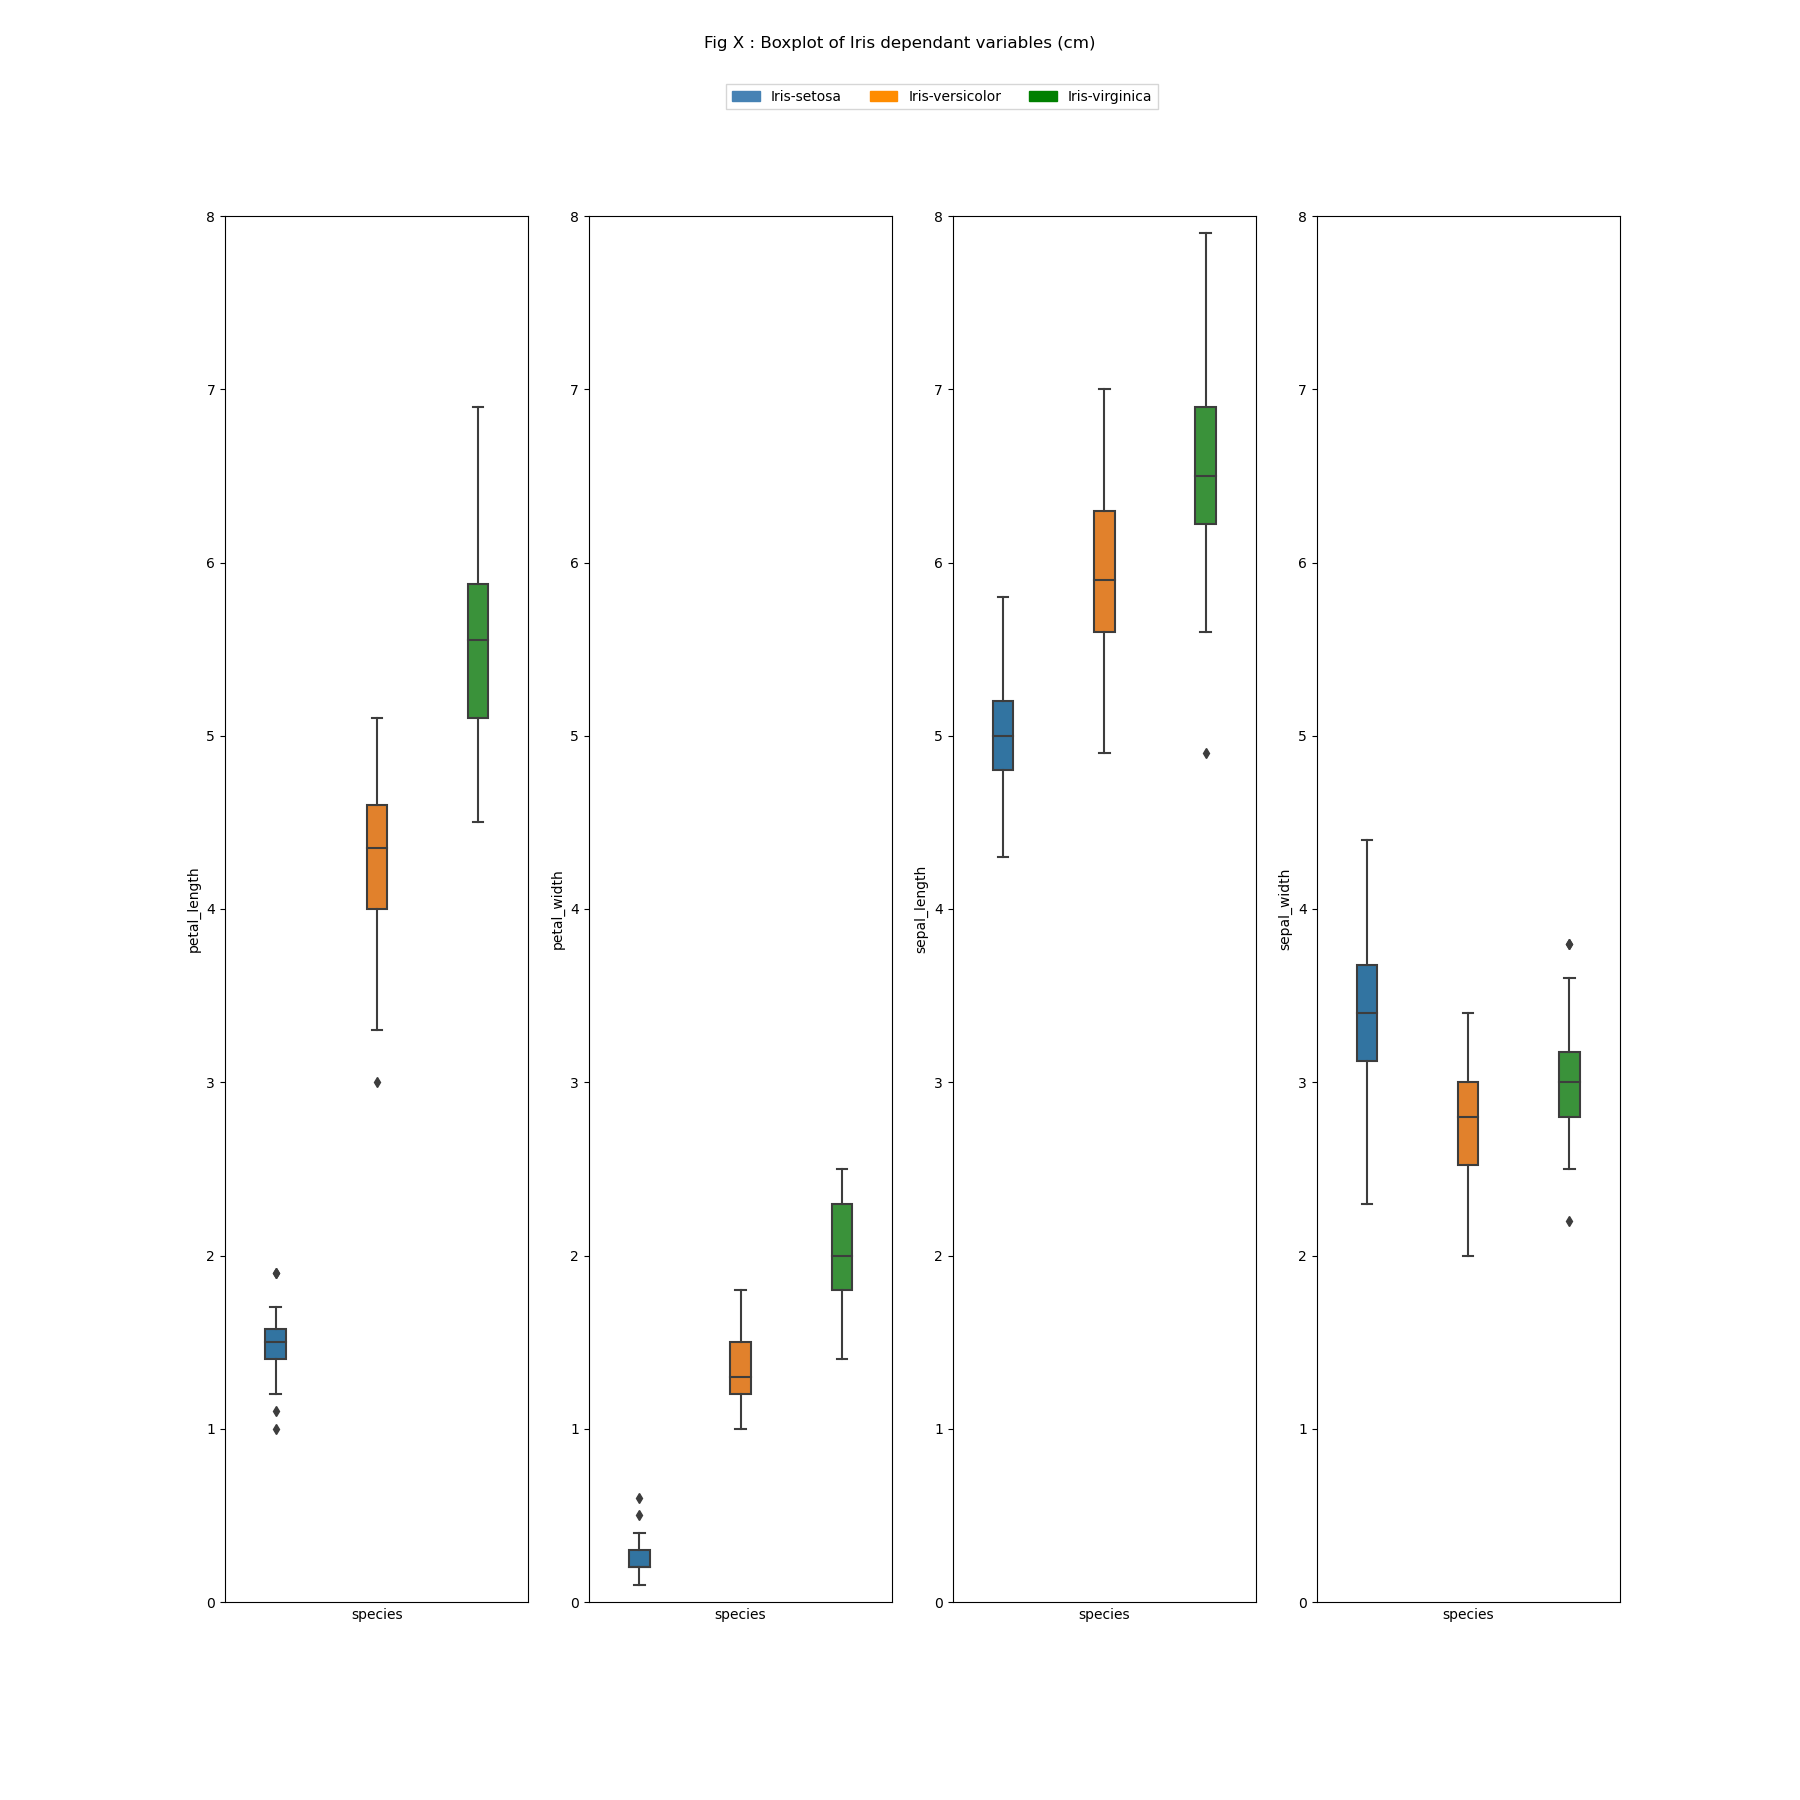
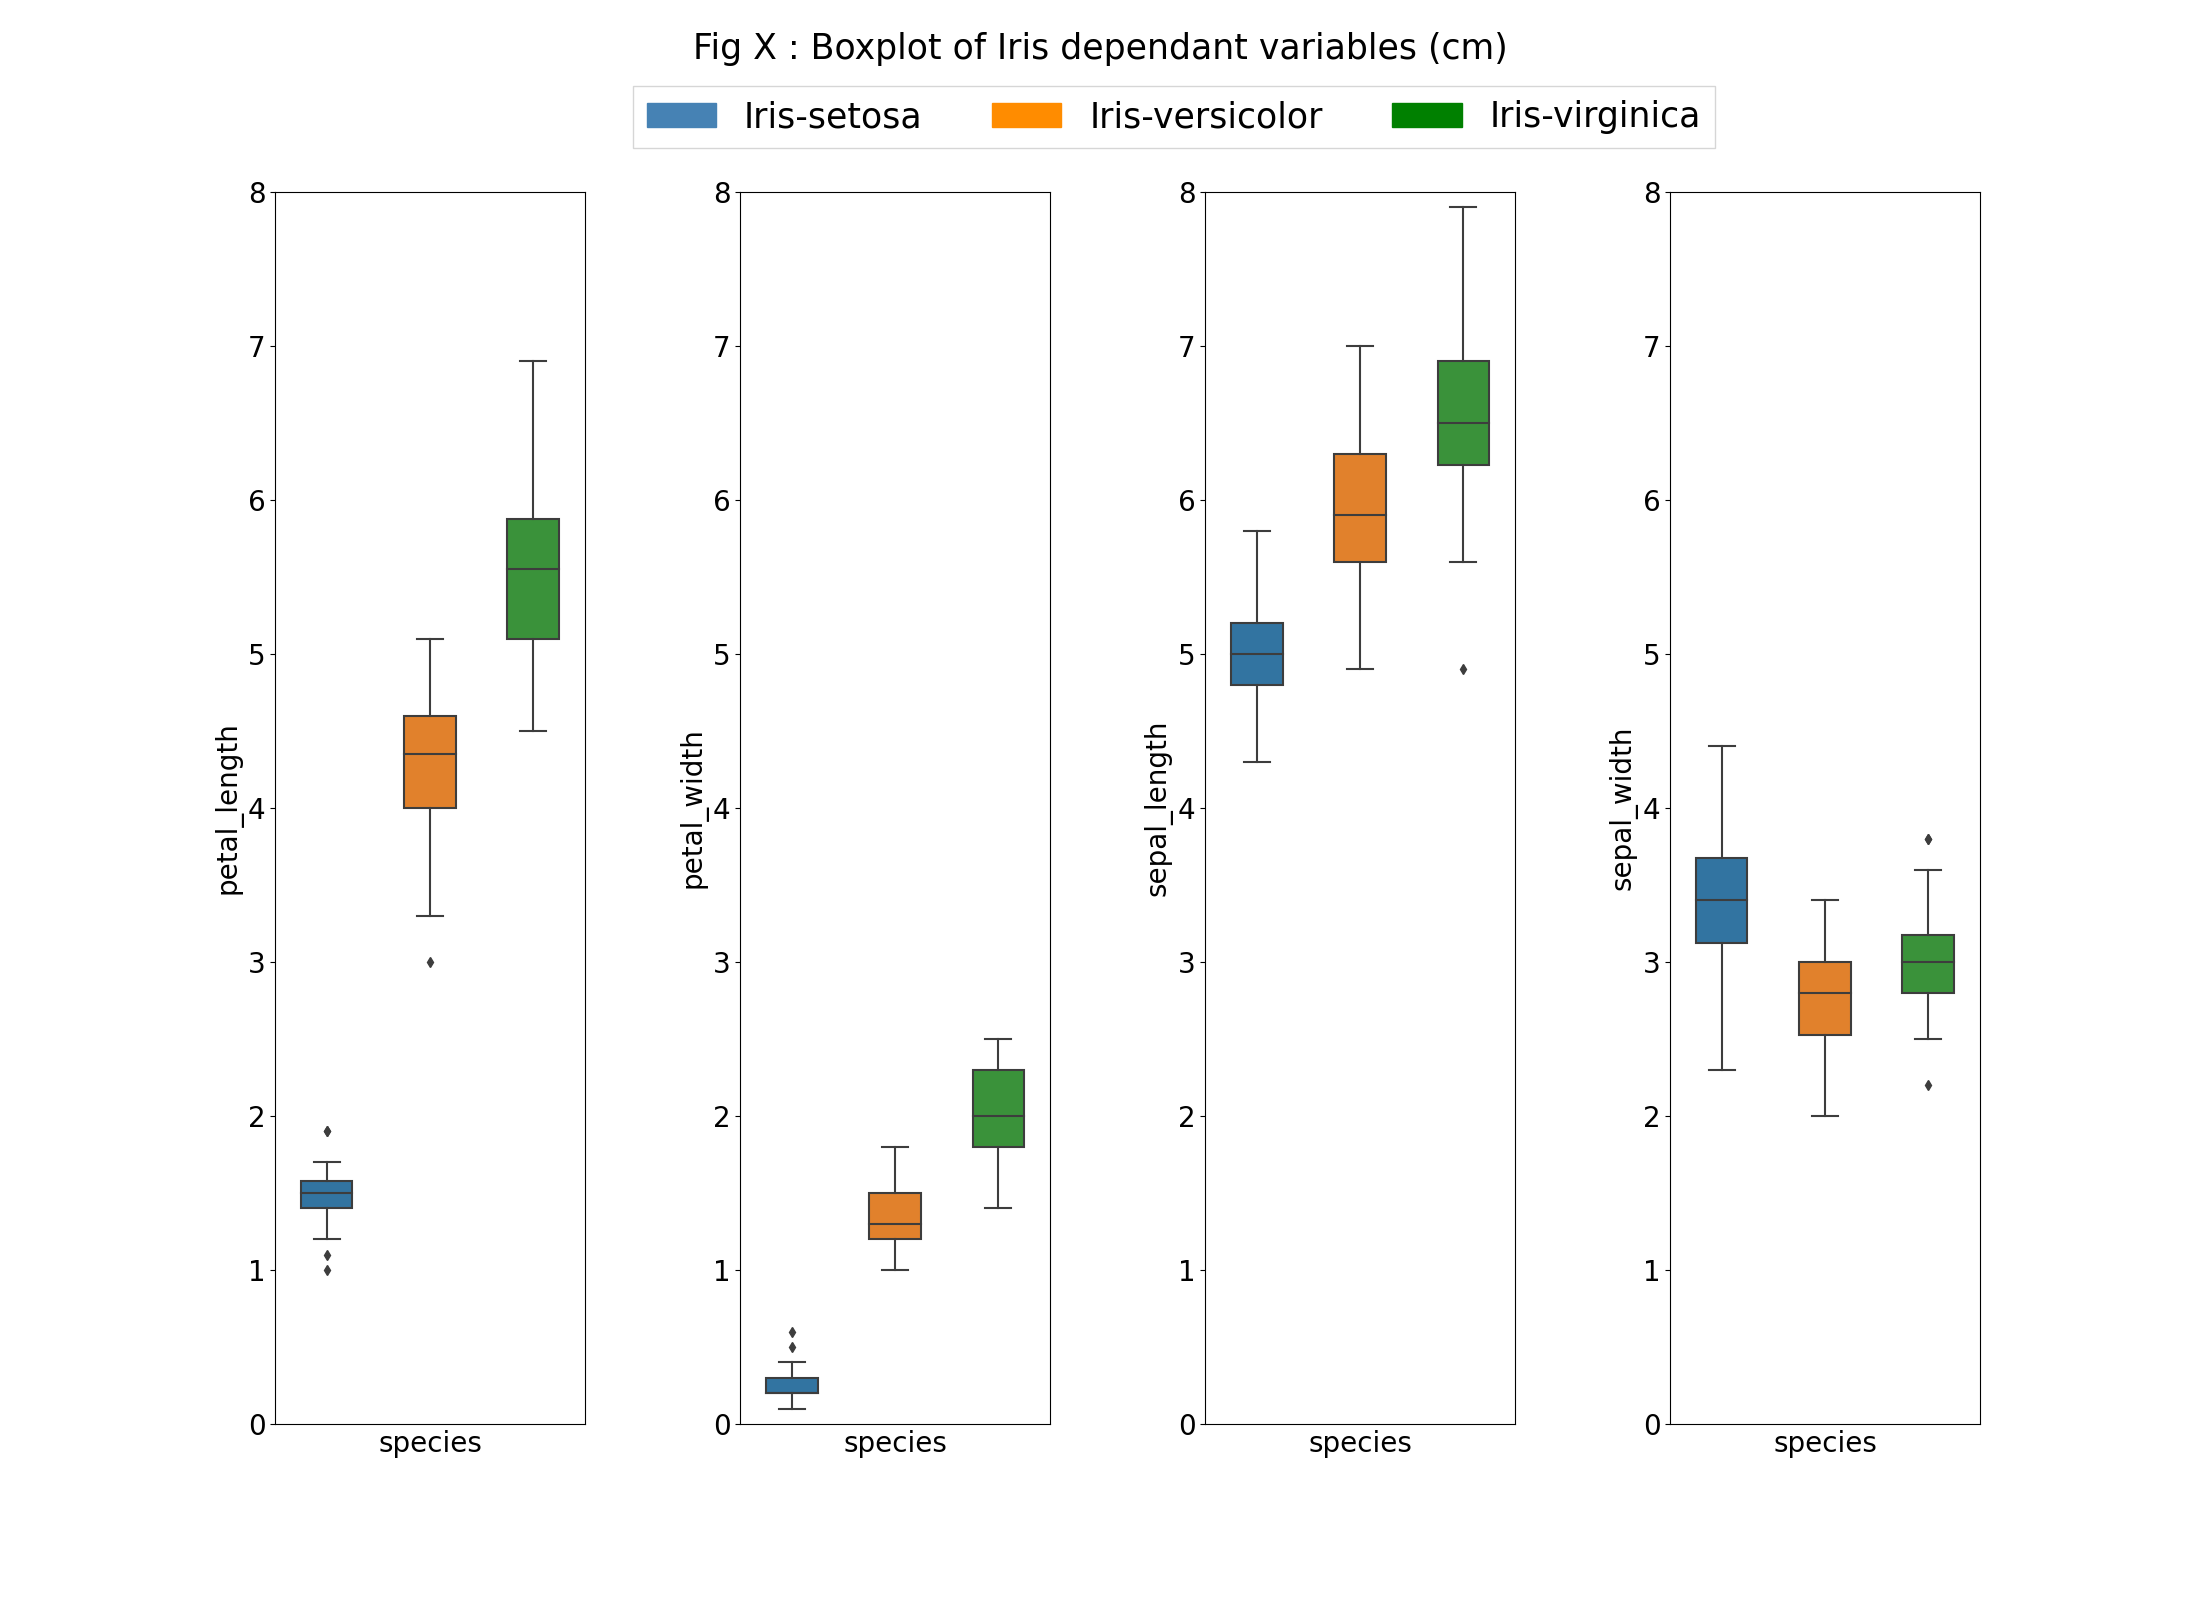
test

diff --git a/Project/analysis.py b/Project/analysis.py
@@ -101,13 +101,13 @@ plot_histograms('histograms_sepals','Plot 2','Sepals','sepal_length','sepal_widt
 def plot_boxplot():
     from matplotlib import patches as mpatches
 
-    fig, axes = plt.subplots(1,4, figsize=(18, 18))
-    fig.suptitle('Fig X : Boxplot of Iris dependant variables (cm)', fontsize = 12)
+    fig, axes = plt.subplots(1,4, figsize=(22, 16))
+    fig.suptitle('Fig X : Boxplot of Iris dependant variables (cm)', fontsize = 25)
 
-    sns.boxplot(ax=axes[0], x = iris_df["species"], y = iris_df["petal_length"], data = iris_df, width=0.2)
-    sns.boxplot(ax=axes[1], x=iris_df["species"], y=iris_df["petal_width"], data = iris_df, width=0.2)
-    sns.boxplot(ax=axes[2], x=iris_df["species"], y=iris_df["sepal_length"], data = iris_df, width=0.2)
-    sns.boxplot(ax=axes[3], x=iris_df["species"], y=iris_df["sepal_width"], data  =iris_df, width=0.2)
+    sns.boxplot(ax=axes[0], x = iris_df["species"], y = iris_df["petal_length"], data = iris_df, width=0.5)
+    sns.boxplot(ax=axes[1], x=iris_df["species"], y=iris_df["petal_width"], data = iris_df, width=0.5)
+    sns.boxplot(ax=axes[2], x=iris_df["species"], y=iris_df["sepal_length"], data = iris_df, width=0.5)
+    sns.boxplot(ax=axes[3], x=iris_df["species"], y=iris_df["sepal_width"], data  =iris_df, width=0.5)
     
     legend_labels = ['Iris-setosa', 'Iris-versicolor', 'Iris-virginica']
     setosa = mpatches.Patch(color='steelblue')
@@ -115,21 +115,30 @@ def plot_boxplot():
     virgi = mpatches.Patch(color='green')
 
     plt.legend(title = False, labels=legend_labels,
-              handles=[setosa, versi, virgi], bbox_to_anchor=(-0.5, 1.1),
-              fancybox=False, shadow=False, ncol=3, loc='upper right')
+              handles=[setosa, versi, virgi], bbox_to_anchor=(0.2, 1.1),
+              fancybox=False, shadow=False, ncol=3, loc='upper right', fontsize = 25)
 
     for ax in plt.gcf().axes:
         ax.set_xticks([])
-        ax.set_ylim([0, 8])
-        ax.set_ylim([0, 8])
+        x = ax.get_xlabel()
+        y = ax.get_ylabel()
+        ax.set_xlabel(x, fontsize=20)
+        ax.set_ylabel(y, fontsize=20)
 
+        plt.setp(ax.get_xticklabels(), fontsize=20)  
+        plt.setp(ax.get_yticklabels(), fontsize=20)  
+
+        ax.set_ylim([0, 8])
+        ax.set_ylim([0, 8])
+    plt.subplots_adjust(wspace=0.5)
     plt.savefig('Images/' + 'box_plots' +'.png')
 
 plot_boxplot()
 
 
 def scatter_plot(): 
-    plt.clf() 
+    from matplotlib import patches as mpatches
+    
     fig, axes = plt.subplots(2, 3, figsize=(22, 14))
     plt.subplots_adjust(wspace=0.2,hspace=0.2)#  hspace=0.3
     fig.suptitle('Plot X: Scatter Plot of all variables (units = cm)',fontsize = 25)
@@ -138,11 +147,20 @@ def scatter_plot():
     sns.scatterplot(ax=axes[0, 1], data=iris_df, x='petal_length', y='sepal_length',hue = 'species',legend = False, s = 70)
     sns.scatterplot(ax=axes[0, 2], data=iris_df, x='petal_length', y='sepal_width', hue = 'species',legend = False, s = 70)
     sns.scatterplot(ax=axes[1, 0], data=iris_df, x='sepal_length', y='sepal_width', hue = 'species',legend = False, s = 70)
-    sns.scatterplot(ax=axes[1, 1], data=iris_df, x='sepal_length', y='petal_width', hue = 'species',legend = False, s = 70)
+    sns.scatterplot(ax=axes[1, 1], data=iris_df, x='sepal_length', y='petal_width', hue = 'species',legend = False, s = 70) 
+    sns.scatterplot(ax=axes[1, 2], data=iris_df, x='sepal_width',  y='petal_width', hue = 'species',legend = False, s = 70)
     
-    scatter_with_legend = sns.scatterplot(ax=axes[1, 2], data=iris_df, x='sepal_width',  y='petal_width', hue = 'species', s = 70)
-    plt.setp(scatter_with_legend.get_legend().get_texts(), fontsize='20')  
-    plt.setp(scatter_with_legend.get_legend().get_title(), fontsize='20') 
+    #plt.setp(scatter_with_legend.get_legend().get_texts(), fontsize='20')  
+    #plt.setp(scatter_with_legend.get_legend().get_title(), fontsize='20') 
+
+    legend_labels = ['Iris-setosa', 'Iris-versicolor', 'Iris-virginica']
+    setosa = mpatches.Patch(color='steelblue')
+    versi = mpatches.Patch(color='darkorange')
+    virgi = mpatches.Patch(color='green')
+
+    plt.legend(title = False, labels=legend_labels,
+              handles=[setosa, versi, virgi], bbox_to_anchor=(-0.1, 2.4),
+              fancybox=False, shadow=False, ncol=3, loc='upper right', fontsize = 18)
 
     for ax in plt.gcf().axes:
         x = ax.get_xlabel()
@@ -154,7 +172,8 @@ def scatter_plot():
         plt.setp(ax.get_xticklabels(), fontsize=15)  
         plt.setp(ax.get_yticklabels(), fontsize=15)  
 
-    fig.tight_layout()     
+    fig.tight_layout()
+    plt.subplots_adjust(wspace=0.25, hspace = 0.25, top = 0.9)     
     plt.savefig('Images/' + 'scatter_plots' +'.png')
     
 scatter_plot()
